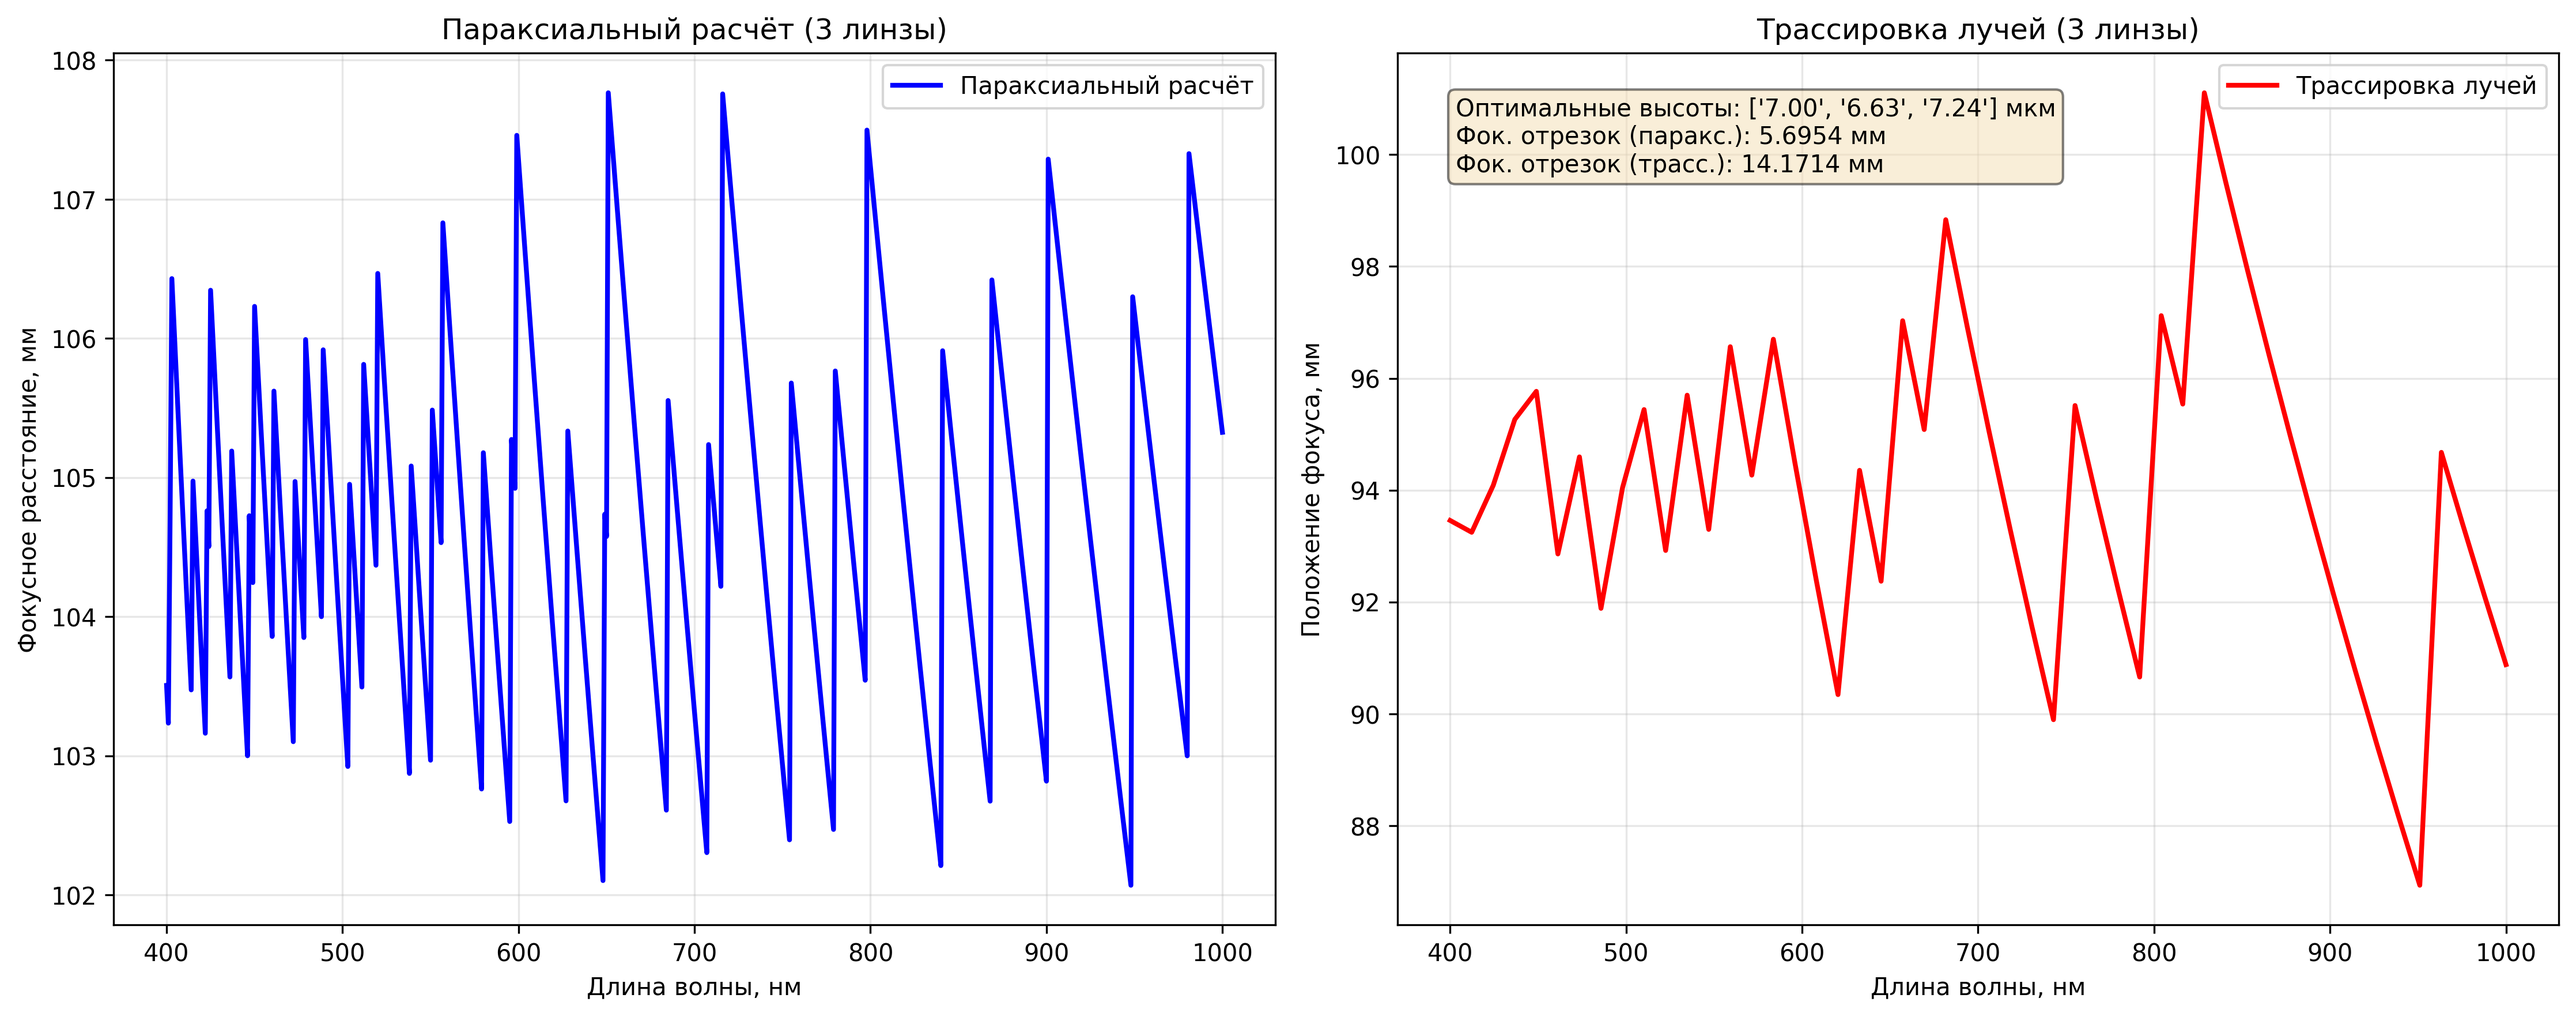
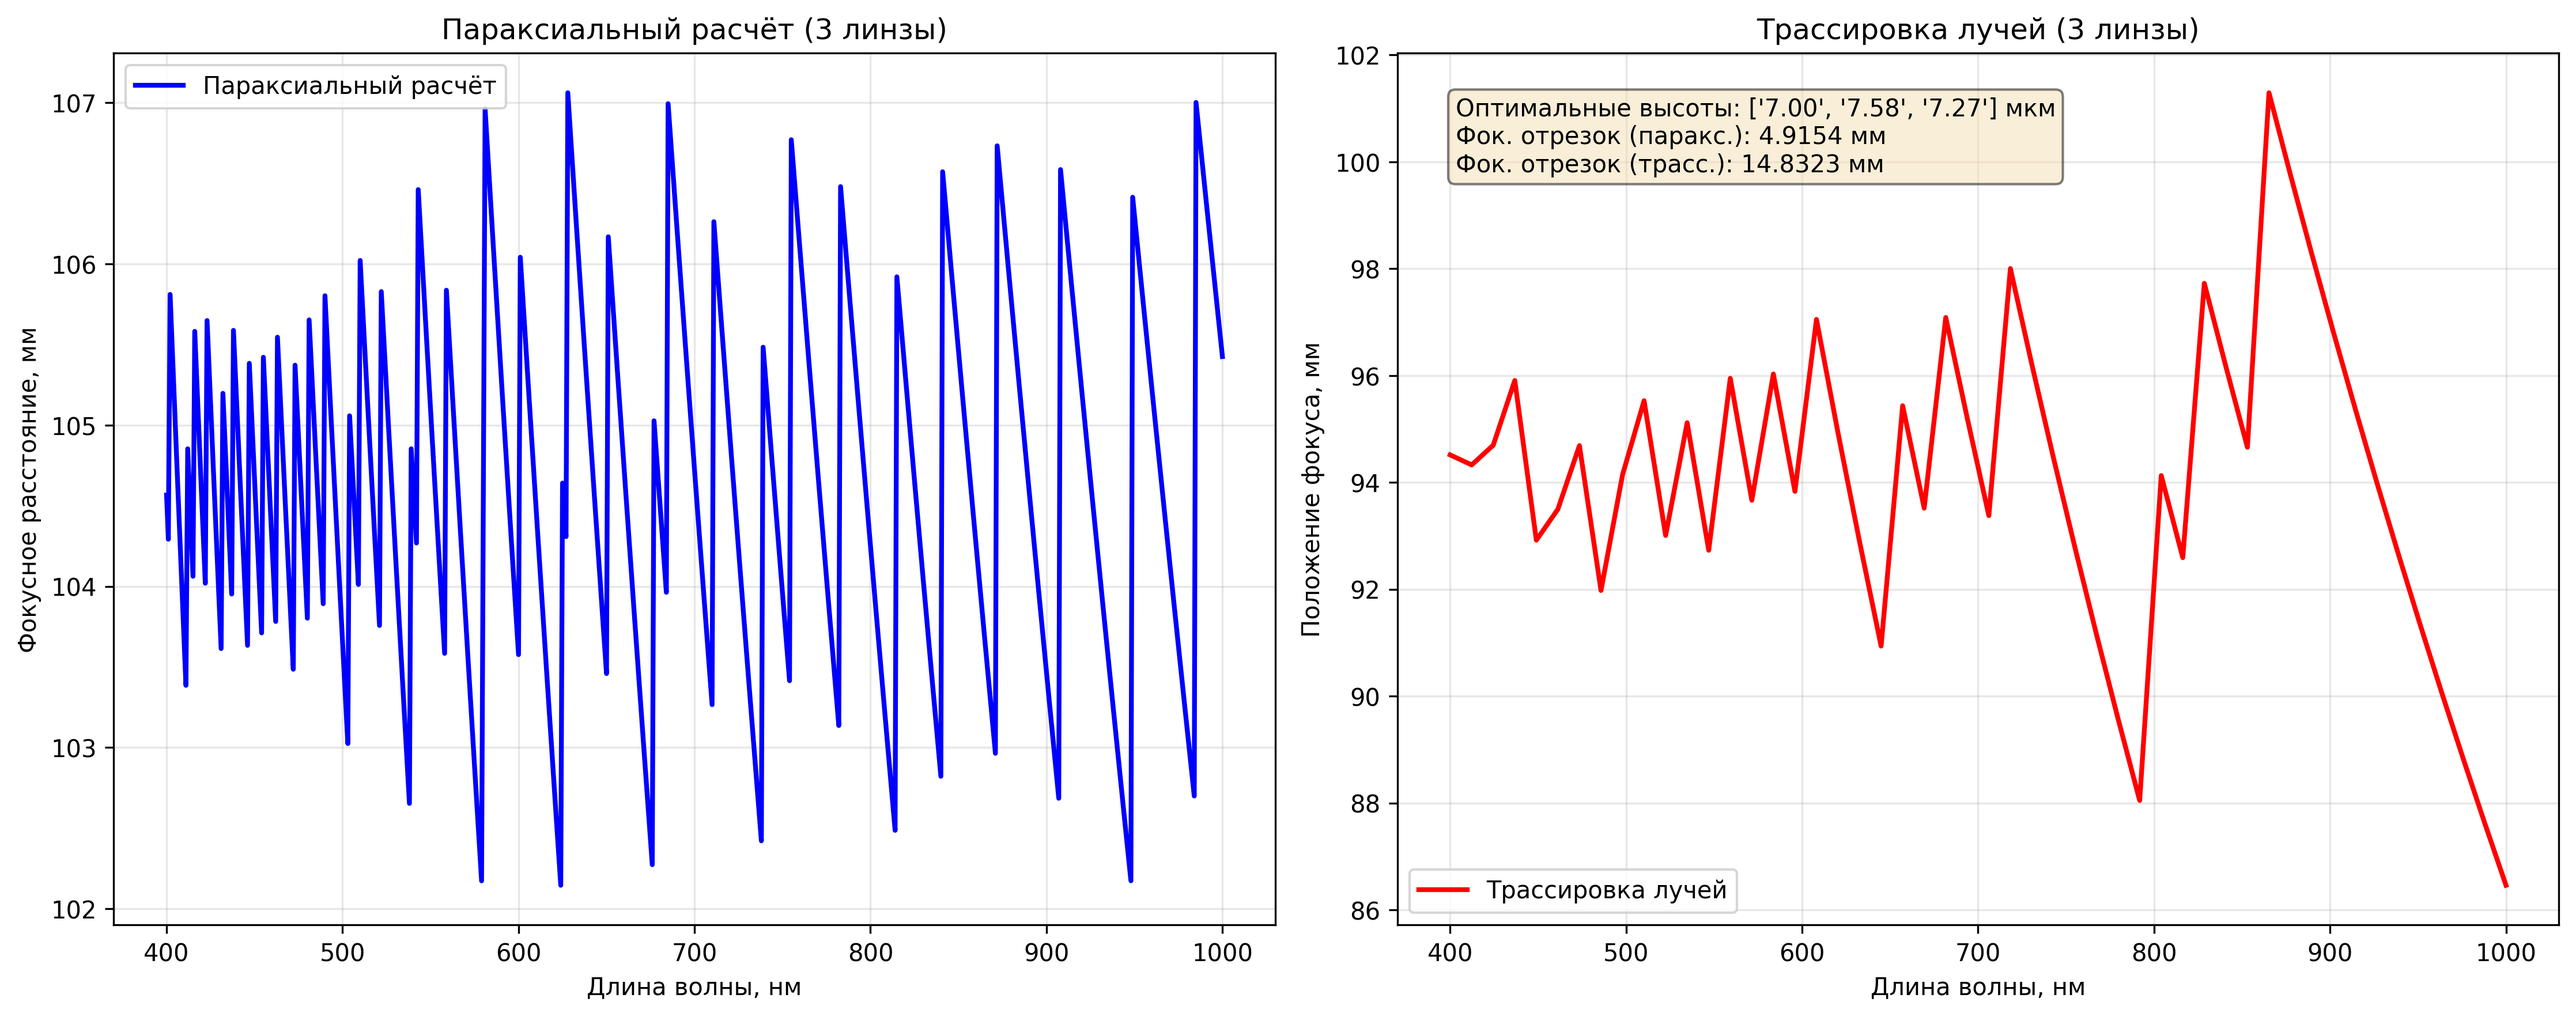
Получил результаты для 4х линз Убрал пропуск значений при расчёте 3х линз

diff --git a/optimizers/tracing_and_paraxial/optimize_and_trace.py b/optimizers/tracing_and_paraxial/optimize_and_trace.py
@@ -185,7 +185,7 @@ class OptimizationAndTracing:
         
         # Поиск оптимальных высот
         dataset = DataSetHelper.create_dataset(count_linse=3, harmonica={1 : h0, 2: h0, 3: h0}) if None else dataset
-        h_range = np.linspace(5, 10, 50) if h_range is None else h_range
+        h_range = np.linspace(5, 10, 100) if h_range is None else h_range
         min_foc_dist = float('inf')
         best_heights = [h0, h0, h0]
         
@@ -194,8 +194,8 @@ class OptimizationAndTracing:
         start_time = time.time()
 
         # Упрощённый перебор для ускорения
-        for h2 in h_range[::2]:  # Шаг 2 для ускорения
-            for h3 in h_range[::2]:
+        for h2 in h_range:  # Шаг 2 для ускорения
+            for h3 in h_range:
                     try:
                         lmbd_f_dict = optimizer.lmbd_focus_dict(
                             dataset=dataset, 
